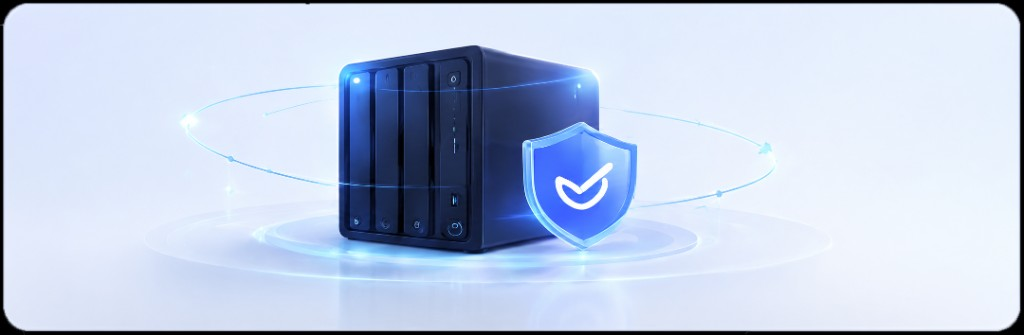
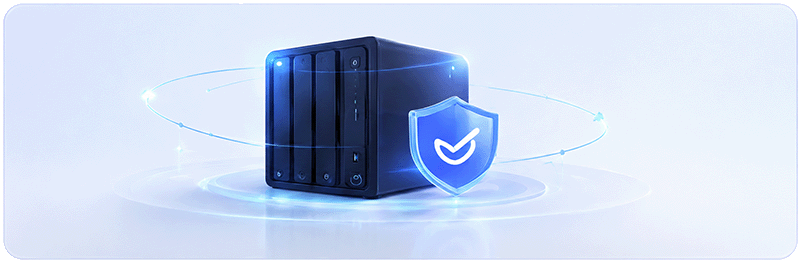
update

diff --git a/index.html b/index.html
@@ -4,7 +4,7 @@
   <meta charset="UTF-8" />
   <meta name="viewport" content="width=device-width, initial-scale=1.0" />
   <title>风琳 Player — 群晖音乐客户端</title>
-  <meta name="description" content="风琳 Player 是一款面向 HarmonyOS NEXT 的群晖 Audio Station 第三方音乐客户端，连接你的 NAS，随时随地畅听自己的音乐库。" />
+  <meta name="description" content="风琳 Player 是一款面向 HarmonyOS 6 的群晖 Audio Station 第三方音乐客户端，连接你的 NAS，随时随地畅听自己的音乐库。（在鸿蒙 6 下验证；鸿蒙 5 及更早系统不保证兼容。）" />
   <link rel="icon" type="image/png" href="logo.png" />
   <link rel="apple-touch-icon" href="logo.png" />
   <style>
@@ -1297,9 +1297,9 @@
     <main>
       <section class="section hero">
         <div>
-          <div class="eyebrow"><i></i>HarmonyOS NEXT · 群晖 Audio Station 第三方客户端</div>
+          <div class="eyebrow"><i></i>HarmonyOS 6 · 群晖 Audio Station 第三方客户端</div>
           <h1>让你的 NAS 音乐库，<br />在 <span class="grad">HarmonyOS</span> 上优雅流淌</h1>
-          <p class="hero-desc">连接你的群晖 NAS，随时随地畅听自己的音乐库。风琳 Player 专注本地收藏、无损播放、歌词体验与多设备习惯同步。</p>
+          <p class="hero-desc">连接你的群晖 NAS，随时随地畅听自己的音乐库。风琳 Player 专注本地收藏、无损播放、歌词体验与多设备习惯同步。推荐 HarmonyOS 6；鸿蒙 5 及更早系统不保证可用。</p>
 
           <div class="hero-badges">
             <div class="hero-badge">
@@ -1335,13 +1335,13 @@
 
           <div class="phone main">
             <div class="screen">
-              <img class="screen-img" src="screenshot_20260508_084155_cn.jpg" alt="风琳 Player 正在播放界面" />
+              <img class="screen-img" src="screenshot_1.png" alt="风琳 Player 正在播放界面" />
             </div>
           </div>
 
           <div class="phone side">
             <div class="screen">
-              <img class="screen-img" src="screenshot_20260508_084206_cn.jpg" alt="风琳 Player 音乐库主页" />
+              <img class="screen-img" src="screenshot_2.png" alt="风琳 Player 音乐库主页" />
             </div>
           </div>
         </div>